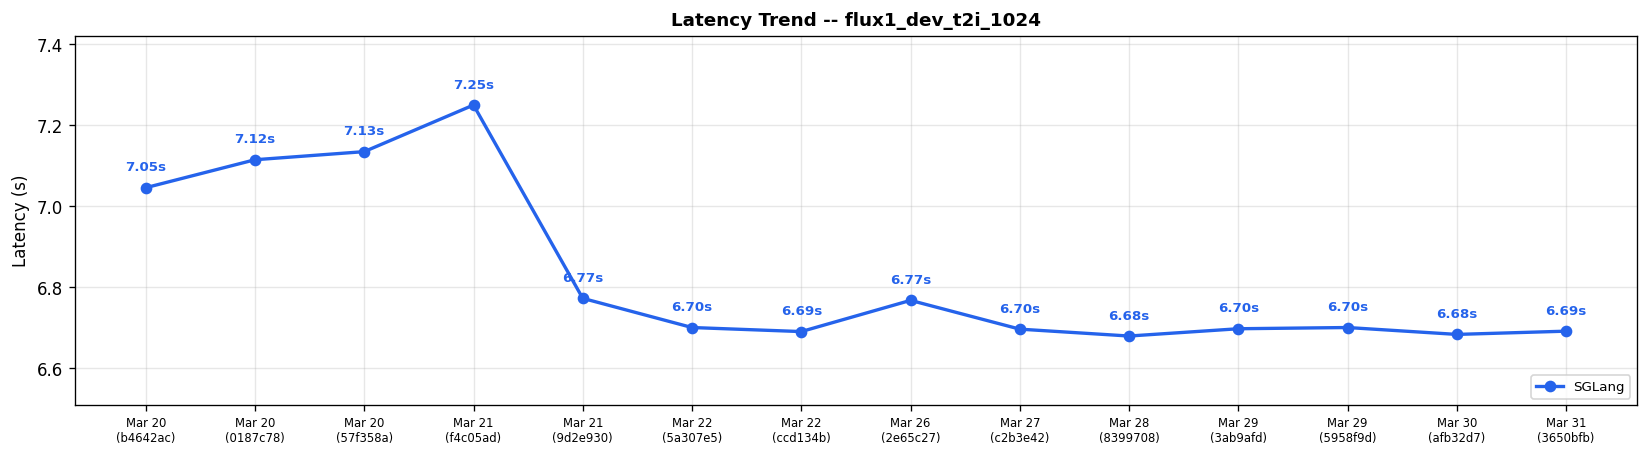
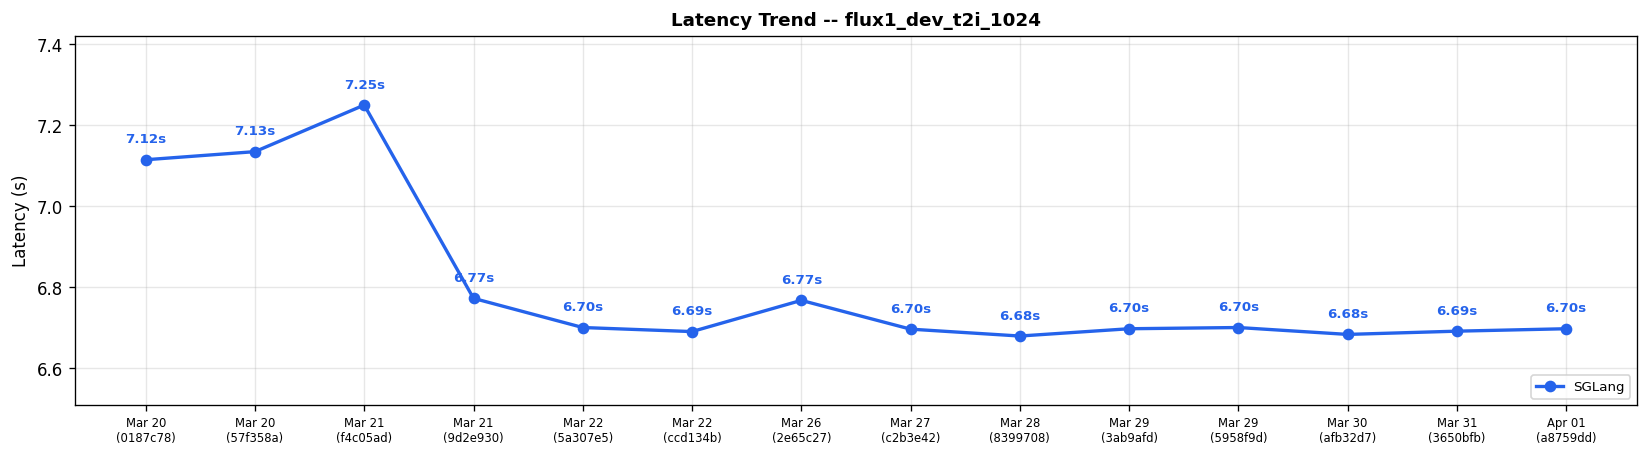
Diffusion comparison results for run 23826444093 (#535)

diff --git a/diffusion-comparisons/dashboard.md b/diffusion-comparisons/dashboard.md
@@ -1,24 +1,31 @@
 # Diffusion Cross-Framework Performance Dashboard
 
-*Generated: Mar 31 | Commit: `3650bfb`*
+*Generated: Apr 01 | Commit: `a8759dd`*
+
+> [!WARNING]
+> **Performance Regression Detected**
+>
+> - **wan22_i2v_a14b_720p** (sglang): 9.03s -> 21.07s (+133.3%)
+
 
 ## Cross-Framework Performance Comparison
 
 | Model | Risk | sglang (s) |
 |-------|------|---------|
-| FLUX.1-dev | ✅ | **6.69** |
-| FLUX.2-dev | ✅ | **22.84** |
+| FLUX.1-dev | ✅ | **6.70** |
+| FLUX.2-dev | ✅ | **22.88** |
 | Qwen-Image-2512 | ✅ | **13.19** |
-| Qwen-Image-Edit-2511 | ✅ | **29.64** |
+| Qwen-Image-Edit-2511 | ✅ | **30.10** |
 | Z-Image-Turbo | ✅ | **0.93** |
-| Wan2.2-T2V-A14B-Diffusers | ✅ | **16.10** |
-| Wan2.2-TI2V-5B-Diffusers | ✅ | **63.18** |
-| Wan2.2-I2V-A14B-Diffusers | ✅ | **9.03** |
+| Wan2.2-T2V-A14B-Diffusers | ✅ | **16.16** |
+| Wan2.2-TI2V-5B-Diffusers | ✅ | **62.20** |
+| Wan2.2-I2V-A14B-Diffusers | ⚠ | **21.07** |
 
 ## SGLang Performance Trend (Last 15 Runs)
 
 | Date | Commit | flux1_dev_t2i_1024 (s) | flux2_dev_t2i_1024 (s) | qwen_image_2512_t2i_1024 (s) | qwen_image_edit_2511 (s) | zimage_turbo_t2i_1024 (s) | wan22_t2v_a14b_720p (s) | wan22_ti2v_5b_720p (s) | wan22_i2v_a14b_720p (s) | Trend |
 |------|--------|---------|---------|---------|---------|---------|---------|---------|---------|-------|
+| Apr 01 | `a8759dd` | 6.70 | 22.88 | 13.19 | 30.10 | 0.93 | 16.16 | 62.20 | 21.07 | :left_right_arrow:  :left_right_arrow:  :left_right_arrow:  :left_right_arrow:  :left_right_arrow:  :left_right_arrow:  :left_right_arrow:  :arrow_up: |
 | Mar 31 | `3650bfb` | 6.69 | 22.84 | 13.19 | 29.64 | 0.93 | 16.10 | 63.18 | 9.03 | :left_right_arrow:  :left_right_arrow:  :left_right_arrow:  :left_right_arrow:  :left_right_arrow:  :left_right_arrow:  :left_right_arrow:  :arrow_down: |
 | Mar 30 | `afb32d7` | 6.68 | 22.79 | 13.16 | 29.44 | 0.92 | 16.08 | 62.21 | 10.04 | :left_right_arrow:  :left_right_arrow:  :left_right_arrow:  :left_right_arrow:  :left_right_arrow:  :left_right_arrow:  :left_right_arrow:  :left_right_arrow: |
 | Mar 29 | `5958f9d` | 6.70 | 22.86 | 13.19 | 29.74 | 0.93 | 16.31 | 62.18 | 10.04 | :left_right_arrow:  :left_right_arrow:  :left_right_arrow:  :left_right_arrow:  :left_right_arrow:  :left_right_arrow:  :left_right_arrow:  :arrow_up: |
@@ -32,8 +39,7 @@
 | Mar 21 | `f4c05ad` | 7.25 | 23.89 | 14.66 | 33.42 | 2.04 | 19.25 | 70.19 | 10.04 | :left_right_arrow:  :left_right_arrow:  :arrow_down:  :left_right_arrow:  :arrow_down:    :left_right_arrow: |
 | Mar 20 | `57f358a` | 7.13 | 24.05 | 17.18 | 32.91 | 2.33 | N/A | N/A | 10.04 | :left_right_arrow:   :left_right_arrow:  :left_right_arrow:  :left_right_arrow:    |
 | Mar 20 | `0187c78` | 7.12 | N/A | 17.39 | 32.87 | 2.30 | N/A | N/A | N/A |     :left_right_arrow:    |
-| Mar 20 | `479be52` | N/A | N/A | N/A | N/A | 2.31 | 17.44 | N/A | N/A |     :left_right_arrow:    |
-| Mar 20 | `b4642ac` | 7.05 | N/A | 17.56 | 32.61 | 2.32 | N/A | N/A | N/A | -- |
+| Mar 20 | `479be52` | N/A | N/A | N/A | N/A | 2.31 | 17.44 | N/A | N/A | -- |
 
 ### Latency Trend: flux1_dev_t2i_1024
 
@@ -73,6 +79,15 @@
 ### Latency Trend: wan22_i2v_a14b_720p
 
 ![Latency Trend wan22_i2v_a14b_720p](https://raw.githubusercontent.com/sglang-bot/sglang-ci-data/main/diffusion-comparisons/charts/latency_wan22_i2v_a14b_720p.png)
+
+
+> [!CAUTION]
+> **Action Required — Performance Alert**
+>
+> The following cases need attention:
+> - wan22_i2v_a14b_720p: SGLang regression +117.2% vs 3-run avg (21.07s vs 9.70s)
+>
+> cc @mickqian @bbuf @yhyang201
 
 
 ---
